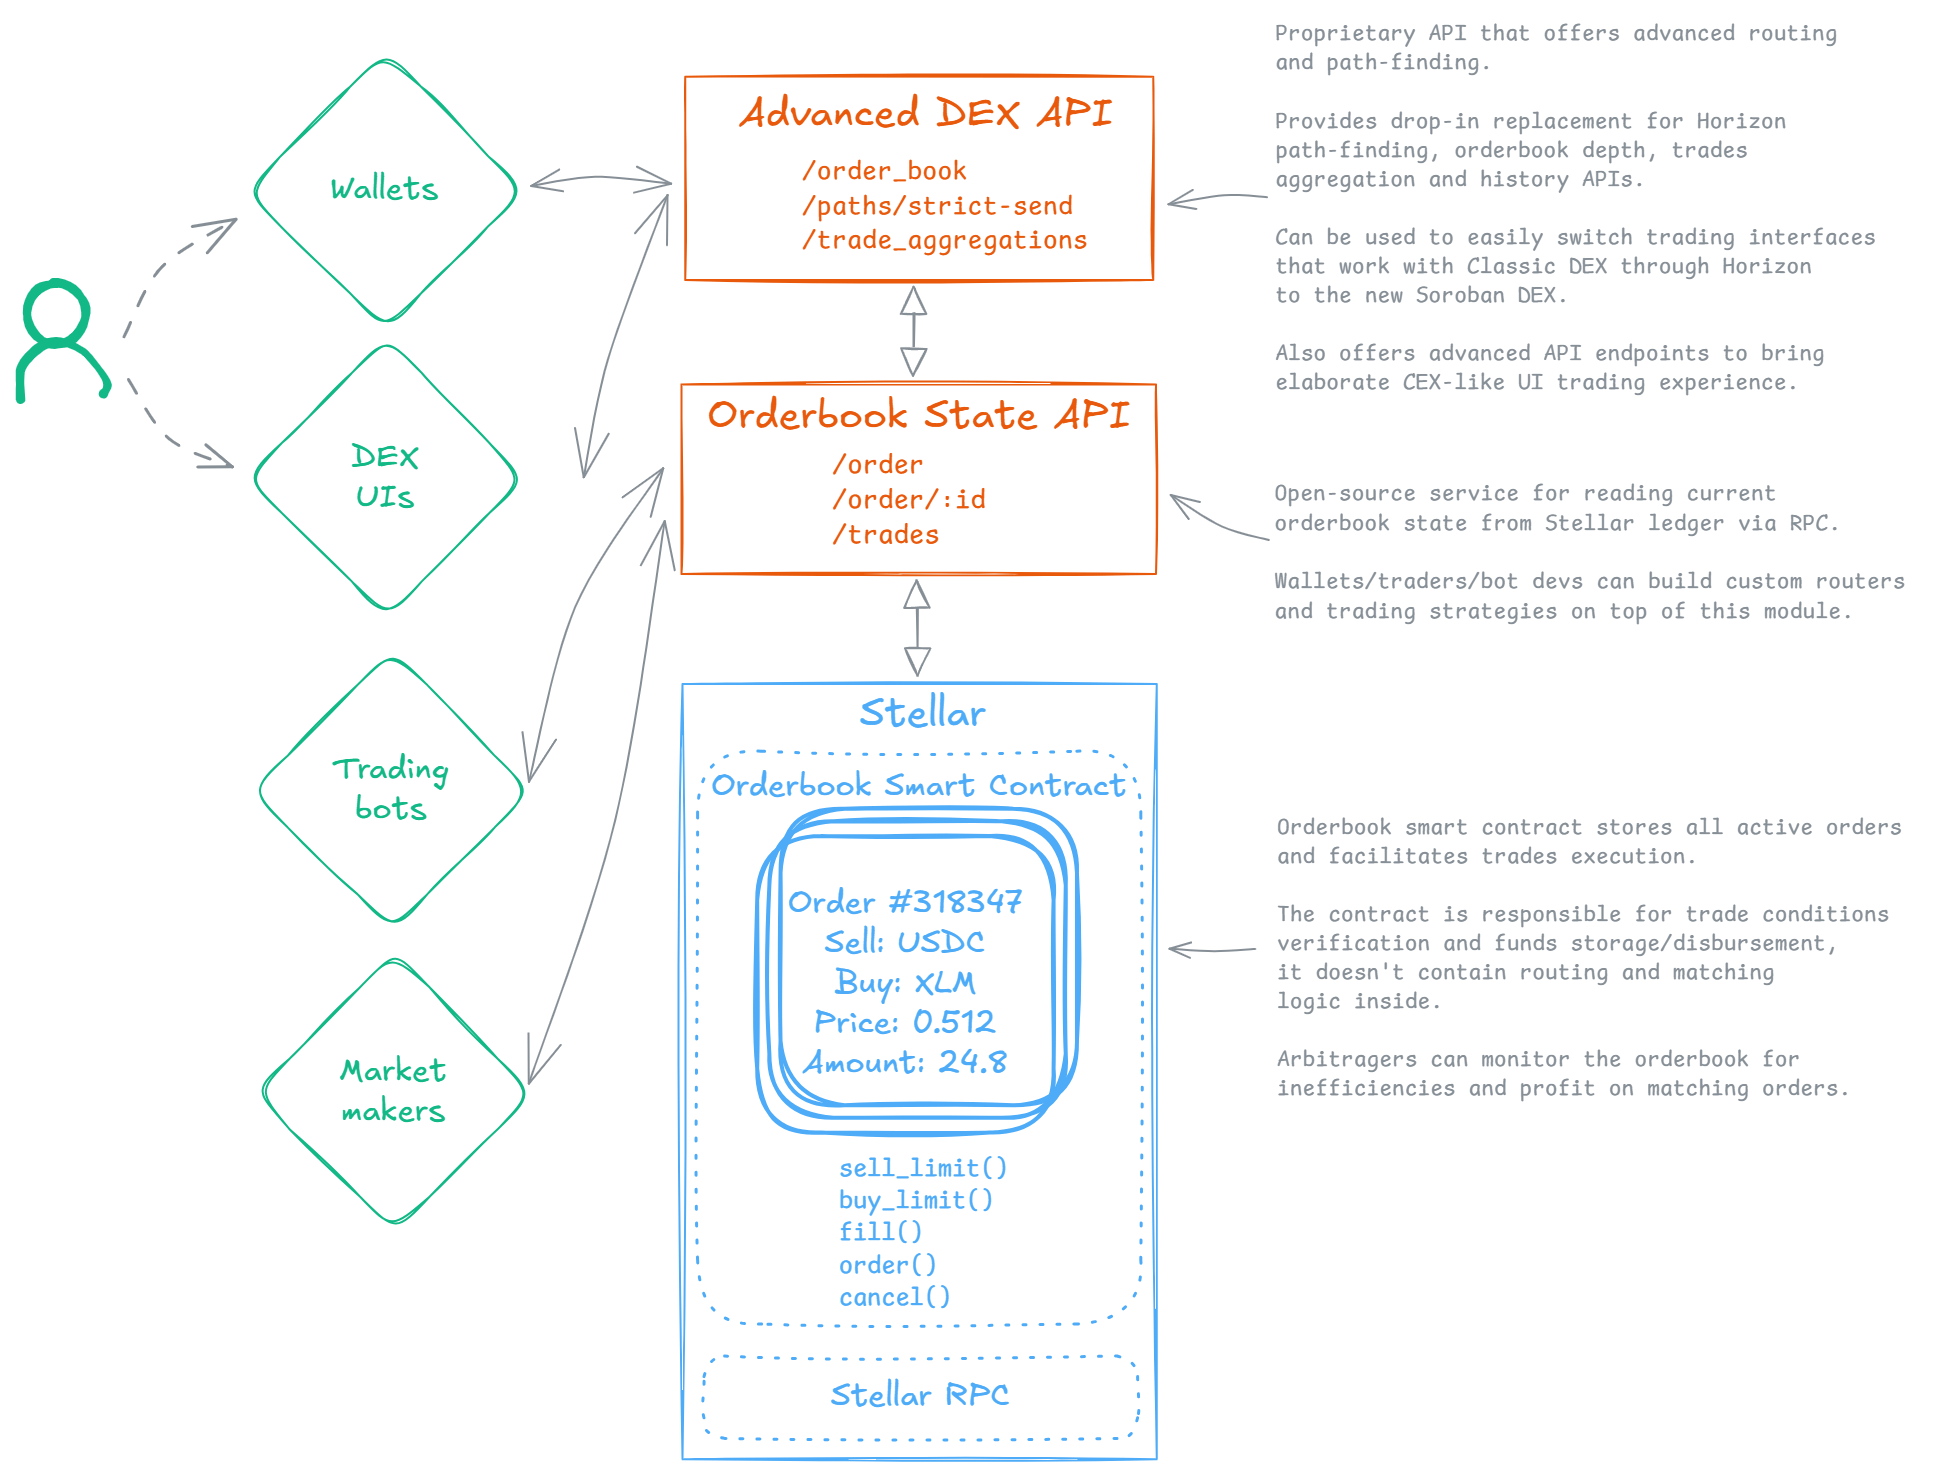
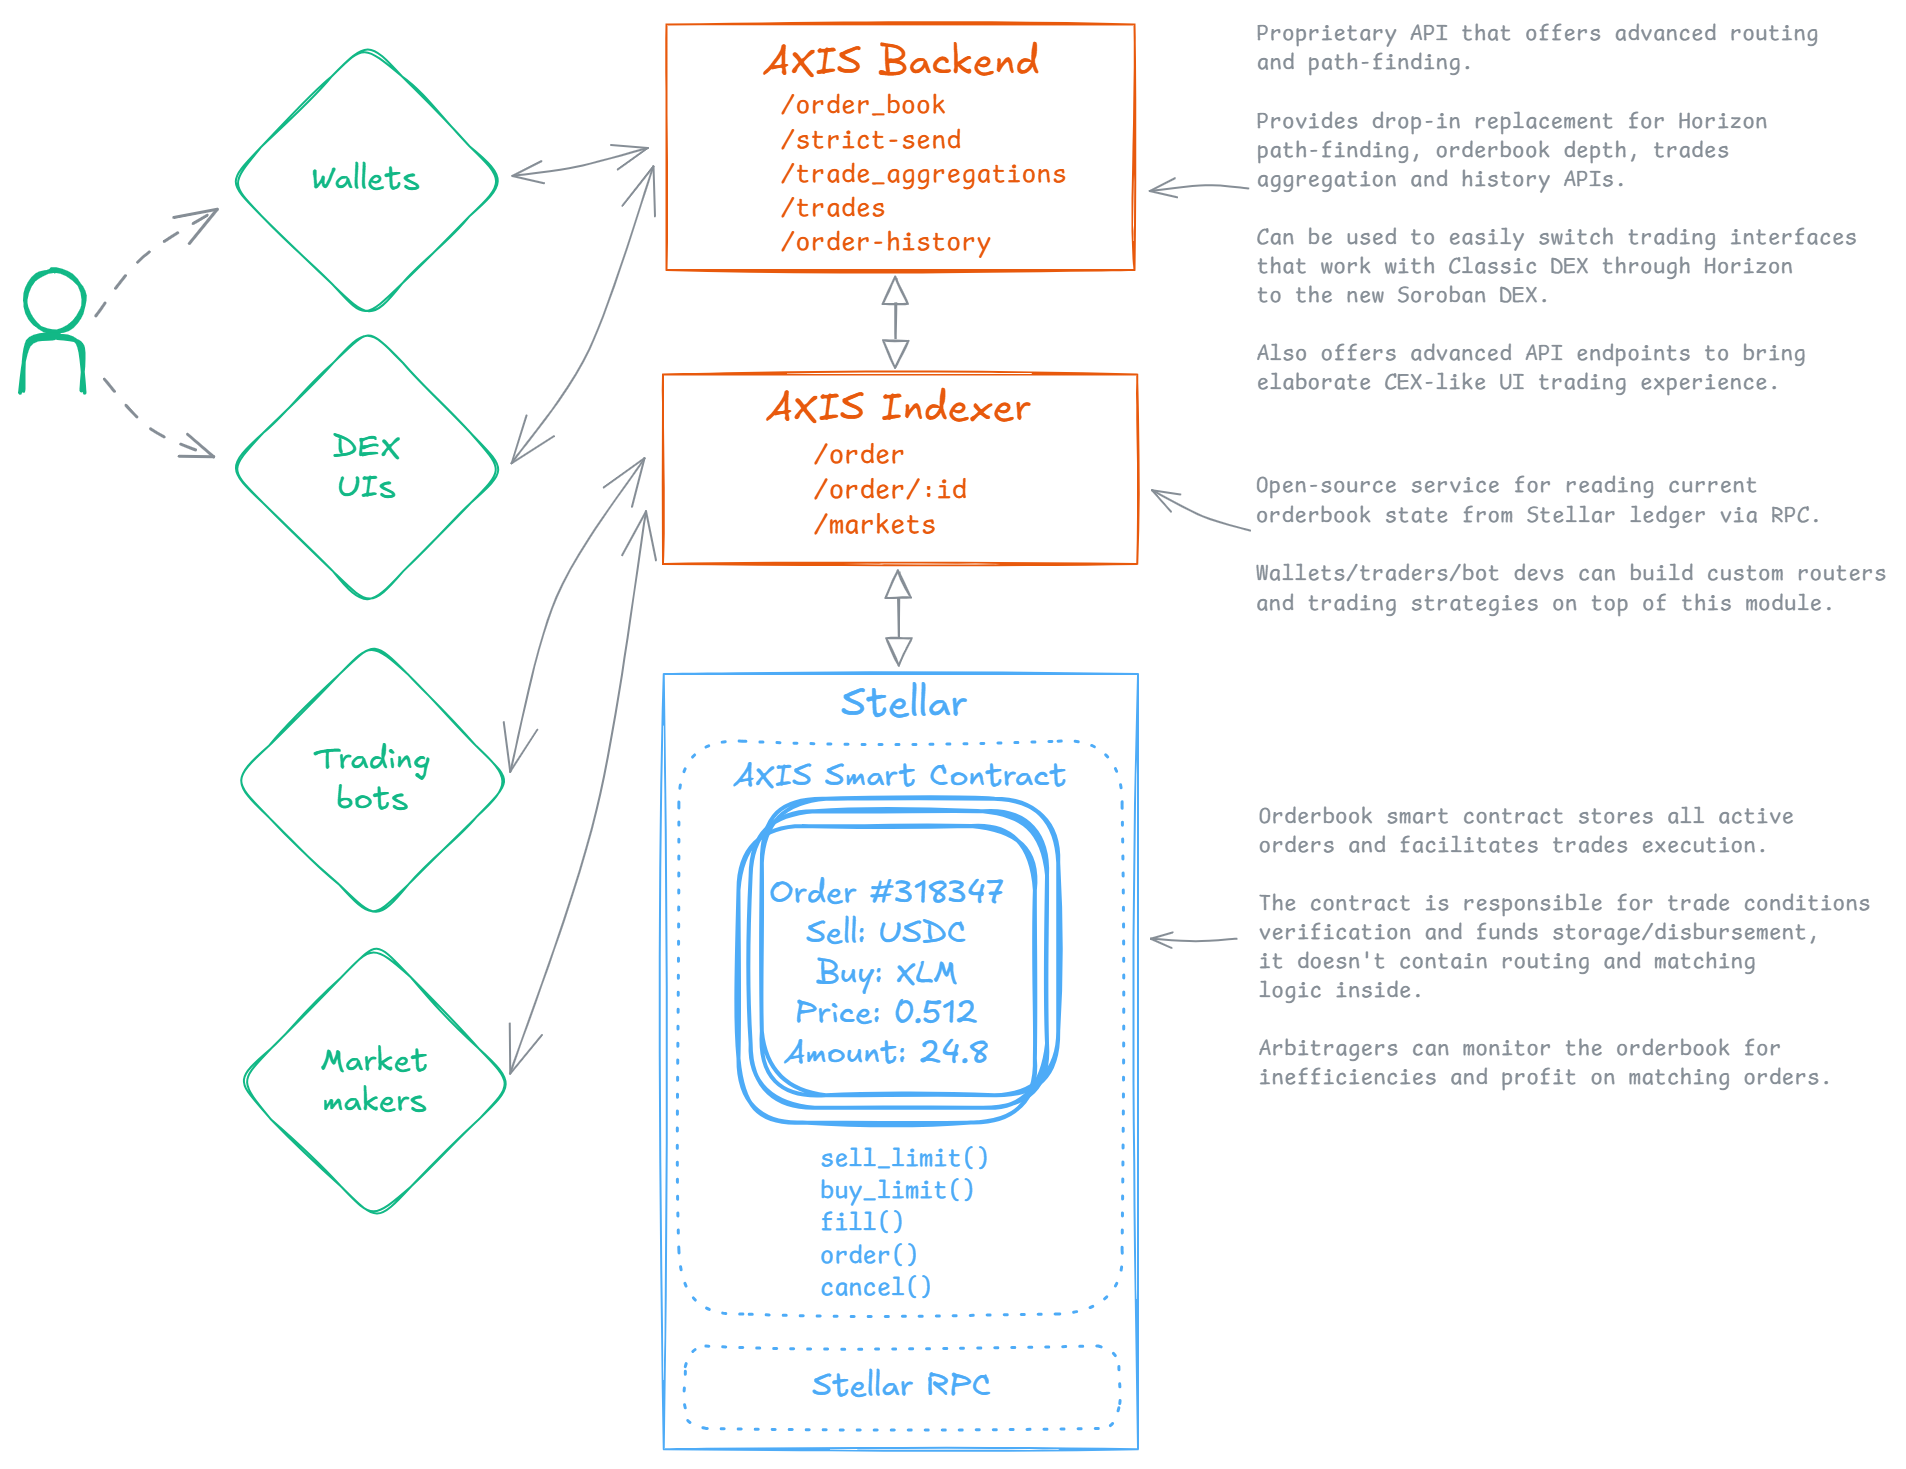
Update technical architecture docs

diff --git a/profile/README.MD b/profile/README.MD
@@ -2,13 +2,123 @@
 
 _by [StellarExpert](https://stellar.expert) and [Aquarius](https://aqua.network)_
 
-🚧 The project is under active development. We are almost ready to show it to the world )
+We ♡ Classic Stellar DEX so we designed AXIS – the next generation smart contract limit orderbook DEX
+backwards compatible with Classic DEX.
 
-We ♡ Stellar DEX and we want to introduce AXIS – the next generation smart contract limit orderbook DEX with Classic DEX backwards compatibility.
+## Functionality
 
-The smart contract itself and indexer/API service are open-source, so anyone will be able to trade with the orderbook.
-On top of that we are planning to offer additional APIs, JS SDK and tooling to provide a programming interface fully backwards compatible with Horizon, hugely simplifying the transition for any existing wallet or trading interface that supports Stellar DEX.
+#### For Wallets
 
-In addition to standard limit orders, the orderbook will also have extension capabilities to support advanced order types to provide CEX-like trading experience: stop-loss, trailing stop-loos, fill-or-kill, iceberg, etc.
+- Access to orderbook liquidity on Soroban
+- Integration via backwards-compatible Horizon API
+- Convenient path-finding for optimal trade execution
+
+#### For Stellar DEX UIs
+
+- Transition from Classic DEX with minimum code changes
+- Everything for trading interfaces using Advanced DEX API
+- Data for sophisticated order book visualization
+
+#### For Trading Bots
+
+- Custom routing and arbitrage opportunities
+- Access to real-time orderbook state via open-source indexer
+- Profits from matching orders and removing orderbook inefficiencies
+
+#### For Market Makers
+
+- Limit-order market-making in smart contracts realm
+- Composability with other Soroban protocols
+- Permissionless trading pairs listing
+
+---
+
+## Technical Architecture
 
 ![Orderbook flowchart](./flowchart.svg)
+
+### Orderbook Smart Contract
+
+Stores all active orders on-chain, maintains order state, provides decentralized access to exchange functionality. The smart contract does NOT contain routing and matching logic (kept off-chain), it is only responsible for trade conditions verification and actual order execution.
+
+Core Functions:
+
+- `sell_limit()` - Trade with DEX and create sell limit order if quote not executed in full
+- `buy_limit()` - Same as sell_limit() but creates a buy order
+- `fill()` - Execute a trade with matched orders
+- `fill_order()` - Fill existing orders using another crossing order from the orderbook
+- `order()` -  Fetch order params from the orderbook
+- `cancel()` - Remove an order form the orderbook
+
+### AXIS Indexer
+
+Open-source service that scans AXIS events and maintains current orderbook state in memory.
+It enables anyone to build custom routers and trading strategies for trading with AXIS on top of this module.
+
+For wallets, traders, bot developers building custom routers and trading strategies.
+
+API Endpoints:
+
+- `/markets`  - Returns the list of all active DEX markets
+- `/order/:id` - Specific order details
+- `/order` - Queries active DEX orders
+
+### AXIS Backend
+
+Proprietary API service that offers advanced routing and path-finding. Provides drop-in replacement for Horizon
+path-finding, orderbook depth, trades aggregation and history APIs.  
+Allows existing DEX interfaces that work with Classic Stellar DEX through Horizon to switch to Soroban DEX seamlessly.
+Offers everything required for building an elaborate, CEX-like UI.
+
+API Endpoints:
+
+- `/order_book` - Full order book depth
+- `/strict-send` and `/strict-receive` - Path-finding for routing
+- `/trade_aggregations` - OHLCV and aggregated trading data
+- `/trades` - Trading history for a given trader or market pair
+- `/order-history` - Access to archived (executed or cancelled) orders
+
+### SDKs
+
+Libs and packages that provide basic scaffolding for AXIS integration that allows to streamline developer experience
+and speed up the integration process.
+
+---
+
+### Key Principles
+
+#### Separation of Concerns
+
+- On-Chain: Pure execution and state management
+- Off-Chain: Complex routing, matching, and path-finding logic
+- API Layer: Compatibility, indexing, and user experience
+
+#### Backwards Compatibility Strategy
+
+Existing wallets/DEXs built for Classic Stellar DEX, so we offer Horizon-like API layer, vastly
+reducing the migration friction for developers.
+
+#### Scalability Through Decoupling
+
+- Smart contract handles only verification and execution – minimal transaction fees, efficient execution, reduced attack
+surface
+- Matching engine operates off-chain – no blockchain bottleneck
+- Decentralized matching – multiple matchers can compete for order execution
+
+#### Open Architecture
+
+- Open-source code allows community verification
+- Orders are available on-chain, anyone can trade with the DEX
+- Orderbook indexer is open-source providing great extensibility
+- Traders can develop sophisticated trading strategies and bots
+- Permissionless trading pairs listing
+- Multiple competing traders prevent monopolies
+- Arbitragers balance orderbook markets through profit incentive
+
+---
+
+## Next
+
+This is the first phase. AXIS evolves, we are planning to introduce extension capabilities and support for
+advanced order types to offer CEX-like trading experience: stop-loss, trailing stop-loos, fill-or-kill, iceberg, etc.  
+And after that? ZK and L2, but we'll talk about this later 😉 
